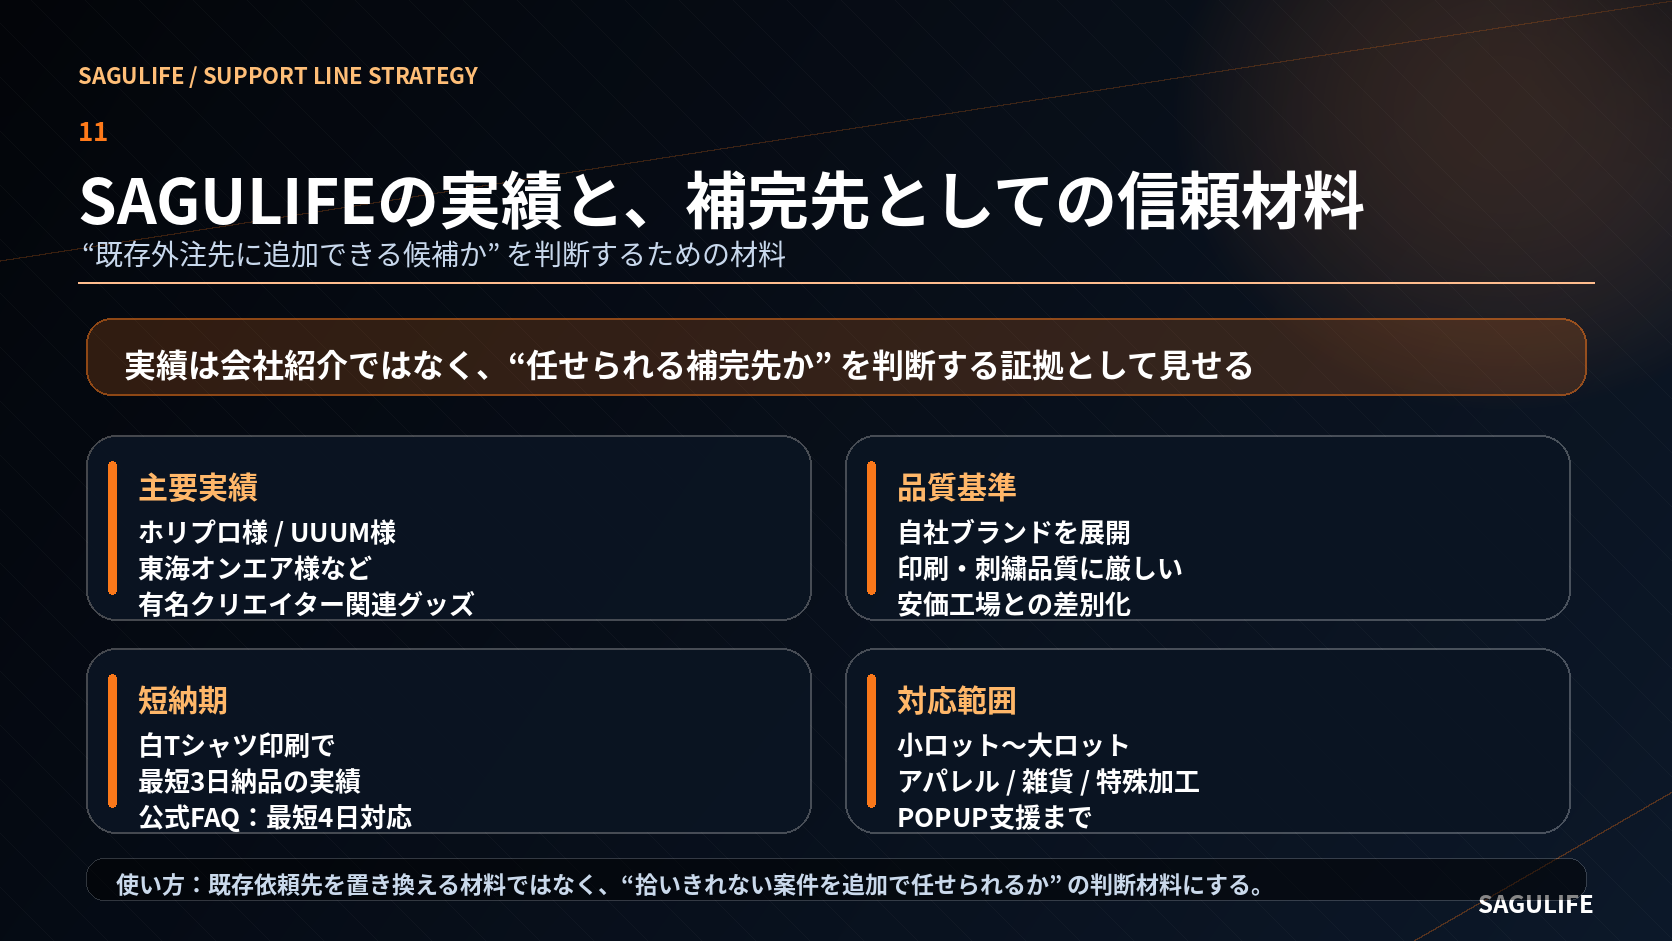
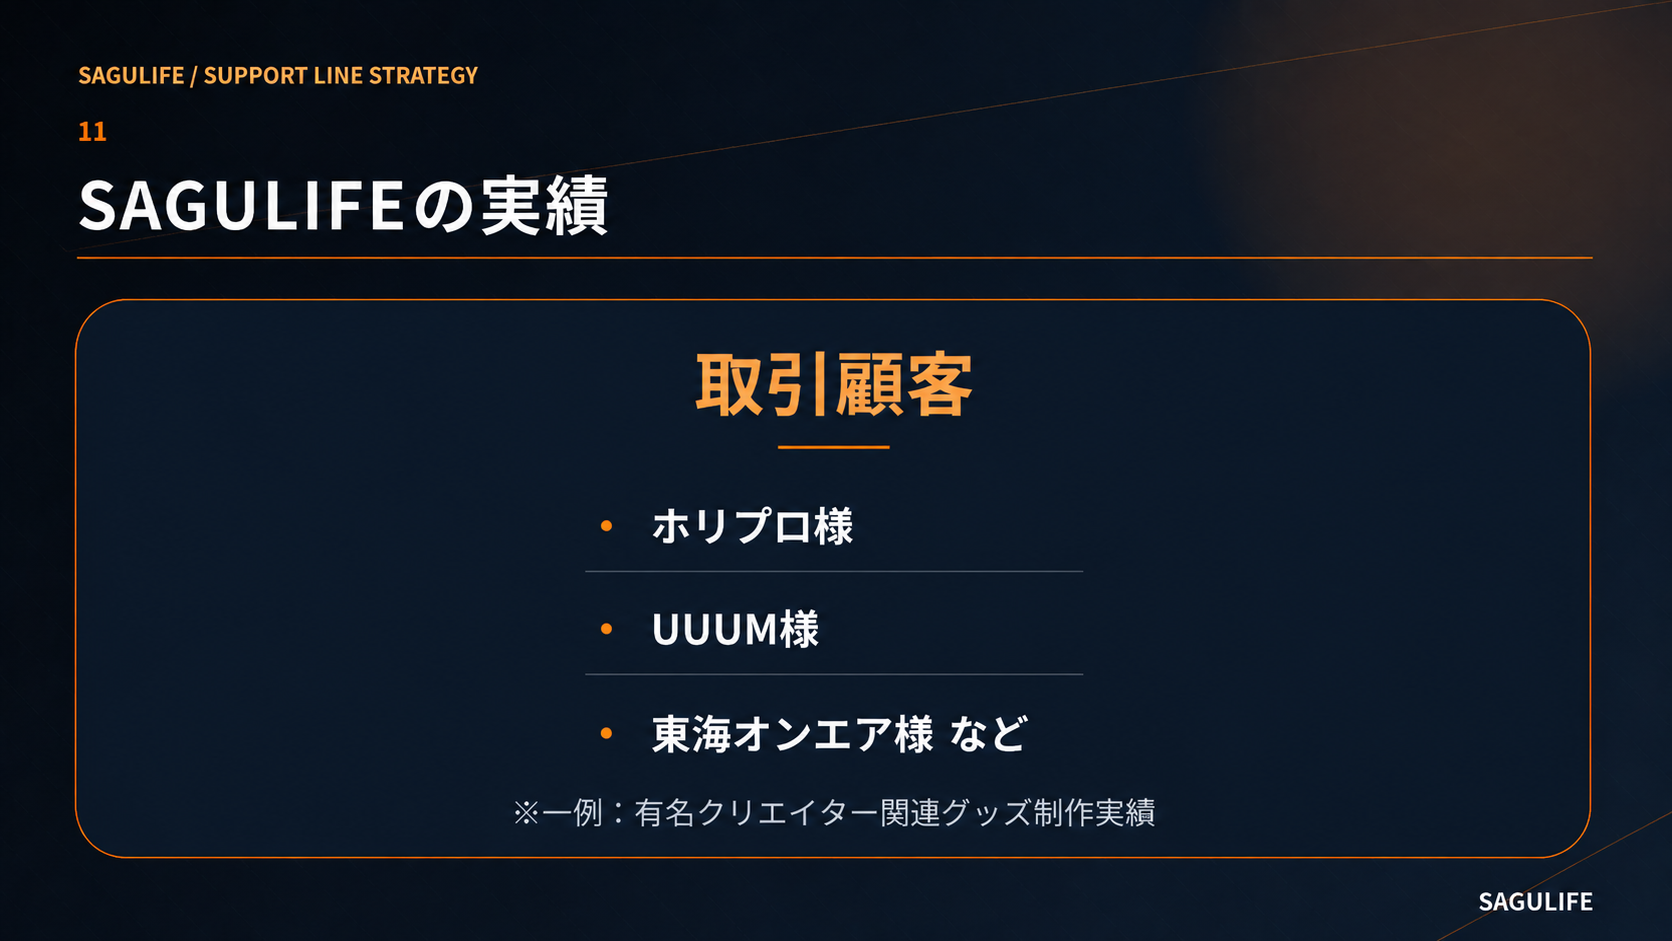
Add files via upload

diff --git a/index.html b/index.html
@@ -40,16 +40,6 @@ const slides=[
     "ask": "本日は、過去に受けたかったけれど受けにくかった案件があるか、そこから確認させてください。"
   },
   {
-    "base": "page12",
-    "title": "基本商流の整理",
-    "headline": "基本商流の整理",
-    "sub": "一般顧客 → ノベルティ製作会社・代理店 → 協力会社。SAGULIFEは裏側の補完ラインとして入る想定です。",
-    "first": "まず前提として、今回の商流はSAGULIFEが一般顧客へ直接売る形ではなく、ノベルティ製作会社様・代理店様の裏側で協力会社として入る形です。",
-    "talk": "ノベルティ製作会社様・代理店様には、すでに付き合いのある依頼先があります。そのため、既存先で問題なく回っている領域を奪いにいくのではなく、既存依頼先で拾いきれない案件に補完ラインとして入る設計です。",
-    "point": "ここで商流を必ず定義する。一般顧客向け資料ではなく、制作会社・代理店向けの補完ライン資料であることを明確にする。",
-    "ask": "御社では、既存の協力会社様で回っている領域と、相談先に迷う領域は分かれていますか？"
-  },
-  {
     "base": "page04",
     "title": "01 過去に断った案件、まだ売上に変えられるかもしれません",
     "headline": "過去に断った案件、まだ売上に変えられるかもしれません",
@@ -131,13 +121,13 @@ const slides=[
   },
   {
     "base": "page13",
-    "title": "09 SAGULIFEの実績と、補完先としての信頼材料",
-    "headline": "SAGULIFEの実績と、補完先としての信頼材料",
-    "sub": "ホリプロ様・UUUM様、有名クリエイター関連グッズ、短納期・特殊加工・POPUP実績を判断材料として提示します",
-    "first": "ここは、SAGULIFE様を既存外注先に追加できる候補かどうかをご判断いただくための材料です。",
-    "talk": "ホリプロ様、UUUM様などの制作実績に加えて、東海オンエア様など有名クリエイター関連グッズの対応実績があります。また、白Tシャツ印刷で最短3日納品の実績、小ロット対応、短納期、特殊加工、POPUP支援まで含めると、既存の依頼先では拾いにくい案件を補完できる余地があります。会社紹介ではなく、どの領域なら任せられそうかの判断材料として見ていただきます。",
-    "point": "実績は“すごい会社紹介”ではなく、補完先として任せられるかの証拠として使う。ウエスト様ではなくUUUM様に修正済み。",
-    "ask": "こういった実績や対応範囲を前提にすると、御社で今の依頼先だけでは受けにくい案件に近いものはありますか？"
+    "title": "09 SAGULIFEの実績",
+    "headline": "SAGULIFEの実績",
+    "sub": "ホリプロ様・UUUM様・東海オンエア様など、取引顧客への提案時に使える判断材料です。",
+    "first": "ここは、SAGULIFE様の実績です。御社の取引顧客に対して、補完先として提案できるかを判断いただく材料になります。",
+    "talk": "ホリプロ様、UUUM様などの制作実績に加えて、東海オンエア様など有名クリエイター関連グッズの対応実績があります。ここで言いたいのは、SAGULIFEがすごい会社という話ではなく、御社が取引顧客へ提案する際に、実績面で説明しやすい補完先かどうかという点です。",
+    "point": "タイトルは“SAGULIFEの実績”のみにする。実績は会社紹介ではなく、取引顧客への説明材料として扱う。",
+    "ask": "この実績があれば、御社の取引顧客に対して補完先として説明しやすい領域はありますか？"
   },
   {
     "base": "page03",
@@ -215,7 +205,7 @@ function openAud(){let u=new URL(location.href);u.searchParams.set("view","audie
 function fs(){if(!document.fullscreenElement&&document.documentElement.requestFullscreen)document.documentElement.requestFullscreen();else if(document.exitFullscreen)document.exitFullscreen()}
 function mediaStatusText(i){if(slides[i].hasVideo)return"VIDEO DETECTED / MP4自動再生";if(slides[i].imageOk)return"IMAGE SLIDE / PNG表示";return"FALLBACK SLIDE / assets未検出"}
 function updateCueMediaLabels(){document.querySelectorAll(".mediaType").forEach((el,i)=>el.textContent=mediaStatusText(i))}
-function presenter(){document.getElementById("app").innerHTML=`<div class="presenter"><div class="previewPane"><div class="notice">発表者ビュー：この画面は共有しない</div><div class="previewShell">${stage()}</div></div><aside class="panel"><div class="head"><h1>SAGULIFE 台本操作型プレゼン v6</h1><p>GitHub→Vercel対応。assets/pageXX.png があれば表示。MP4があれば自動で動画再生。</p></div><div class="warn">⚠ この画面を共有すると台本が見えます。「顧客表示を開く」で開いた別ウィンドウだけ共有してください。</div><div class="controls"><button class="primary" id="open">顧客表示を開く</button><button id="full">全画面</button></div><div class="controls"><button id="prev">← 前へ</button><button id="next">次へ →</button></div><div class="controls"><button id="rv">動画を最初から</button><button id="copy">質問をコピー</button></div><div class="status"><div id="audStatus">顧客表示：<b>未起動</b></div><div>経過時間：<b class="timer" id="timer">00:00</b></div><div>操作：Space / → 次へ、← 前へ、1〜9 指定、R 動画再開</div><div>画像配置：<b>固定マニフェスト方式：page01 → page04 → page05 → page06 → page08 → page09 → page10 → page11 → page02 → page03 → page07</b></div></div><div class="cues">${slides.map((s,i)=>`<article class="cue" data-i="${i}"><div class="cueTop"><div><div class="cueNo">${String(i+1).padStart(2,"0")} / ${s.base}</div><div class="cueTitle">${s.title}</div></div><span class="badge">${String(i+1).padStart(2,"0")}</span></div><div class="mediaType">${mediaStatusText(i)}</div><div class="sec"><div class="lab">一言目</div><div class="txt strong">${s.first}</div></div><div class="sec"><div class="lab">補足説明</div><div class="txt">${s.talk}</div></div><div class="sec"><div class="lab">押さえるポイント</div><div class="tiny">${s.point}</div></div><div class="sec"><div class="lab">相手に投げる質問</div><div class="txt ask">${s.ask}</div></div></article>`).join("")}</div></aside></div>`;document.querySelectorAll(".cue").forEach(c=>c.onclick=()=>setSlide(parseInt(c.dataset.i,10)));document.getElementById("open").onclick=openAud;document.getElementById("full").onclick=fs;document.getElementById("prev").onclick=()=>setSlide(cur-1);document.getElementById("next").onclick=()=>setSlide(cur+1);document.getElementById("rv").onclick=restartVideo;document.getElementById("copy").onclick=async()=>{try{await navigator.clipboard.writeText(slides[cur].ask)}catch(e){alert(slides[cur].ask)}};setInterval(()=>{let sec=Math.floor((Date.now()-start)/1000),m=String(Math.floor(sec/60)).padStart(2,"0"),s=String(sec%60).padStart(2,"0"),t=document.getElementById("timer");if(t)t.textContent=`${m}:${s}`},500);initMediaDetection();setSlide(cur,"remote");}
+function presenter(){document.getElementById("app").innerHTML=`<div class="presenter"><div class="previewPane"><div class="notice">発表者ビュー：この画面は共有しない</div><div class="previewShell">${stage()}</div></div><aside class="panel"><div class="head"><h1>SAGULIFE 台本操作型プレゼン v8</h1><p>GitHub→Vercel対応。assets/pageXX.png があれば表示。MP4があれば自動で動画再生。</p></div><div class="warn">⚠ この画面を共有すると台本が見えます。「顧客表示を開く」で開いた別ウィンドウだけ共有してください。</div><div class="controls"><button class="primary" id="open">顧客表示を開く</button><button id="full">全画面</button></div><div class="controls"><button id="prev">← 前へ</button><button id="next">次へ →</button></div><div class="controls"><button id="rv">動画を最初から</button><button id="copy">質問をコピー</button></div><div class="status"><div id="audStatus">顧客表示：<b>未起動</b></div><div>経過時間：<b class="timer" id="timer">00:00</b></div><div>操作：Space / → 次へ、← 前へ、1〜9 指定、R 動画再開</div><div>画像配置：<b>固定マニフェスト方式：page01 → page04 → page05 → page06 → page08 → page09 → page10 → page11 → page02 → page13 → page03 → page07</b></div></div><div class="cues">${slides.map((s,i)=>`<article class="cue" data-i="${i}"><div class="cueTop"><div><div class="cueNo">${String(i+1).padStart(2,"0")} / ${s.base}</div><div class="cueTitle">${s.title}</div></div><span class="badge">${String(i+1).padStart(2,"0")}</span></div><div class="mediaType">${mediaStatusText(i)}</div><div class="sec"><div class="lab">一言目</div><div class="txt strong">${s.first}</div></div><div class="sec"><div class="lab">補足説明</div><div class="txt">${s.talk}</div></div><div class="sec"><div class="lab">押さえるポイント</div><div class="tiny">${s.point}</div></div><div class="sec"><div class="lab">相手に投げる質問</div><div class="txt ask">${s.ask}</div></div></article>`).join("")}</div></aside></div>`;document.querySelectorAll(".cue").forEach(c=>c.onclick=()=>setSlide(parseInt(c.dataset.i,10)));document.getElementById("open").onclick=openAud;document.getElementById("full").onclick=fs;document.getElementById("prev").onclick=()=>setSlide(cur-1);document.getElementById("next").onclick=()=>setSlide(cur+1);document.getElementById("rv").onclick=restartVideo;document.getElementById("copy").onclick=async()=>{try{await navigator.clipboard.writeText(slides[cur].ask)}catch(e){alert(slides[cur].ask)}};setInterval(()=>{let sec=Math.floor((Date.now()-start)/1000),m=String(Math.floor(sec/60)).padStart(2,"0"),s=String(sec%60).padStart(2,"0"),t=document.getElementById("timer");if(t)t.textContent=`${m}:${s}`},500);initMediaDetection();setSlide(cur,"remote");}
 function audience(){document.getElementById("app").innerHTML=stage();let o=document.createElement("div");o.className="audOverlay";o.innerHTML='<button onclick="fs()">全画面</button><button onclick="restartVideo()">動画再開</button>';document.body.appendChild(o);window.onmessage=e=>{if(e.data&&e.data.type==="sagulife-slide")setSlide(e.data.slide,"remote")};if(ch)ch.onmessage=e=>{if(e.data&&e.data.type==="sagulife-slide")setSlide(e.data.slide,"remote")};window.addEventListener("storage",e=>{if(e.key==="sagulife-sync-v6"&&e.newValue){try{let m=JSON.parse(e.newValue);if(m.type==="sagulife-slide")setSlide(m.slide,"remote")}catch(_){}}});initMediaDetection();setSlide(cur,"remote")}
 document.addEventListener("keydown",e=>{if(e.key==="ArrowRight"||e.key===" "||e.key==="PageDown"){e.preventDefault();setSlide(cur+1)}if(e.key==="ArrowLeft"||e.key==="PageUp"){e.preventDefault();setSlide(cur-1)}if(/^[1-9]$/.test(e.key))setSlide(parseInt(e.key,10)-1);if(e.key.toLowerCase()==="r")restartVideo();if(e.key.toLowerCase()==="f"&&isAud)fs()});
 isAud?audience():presenter();